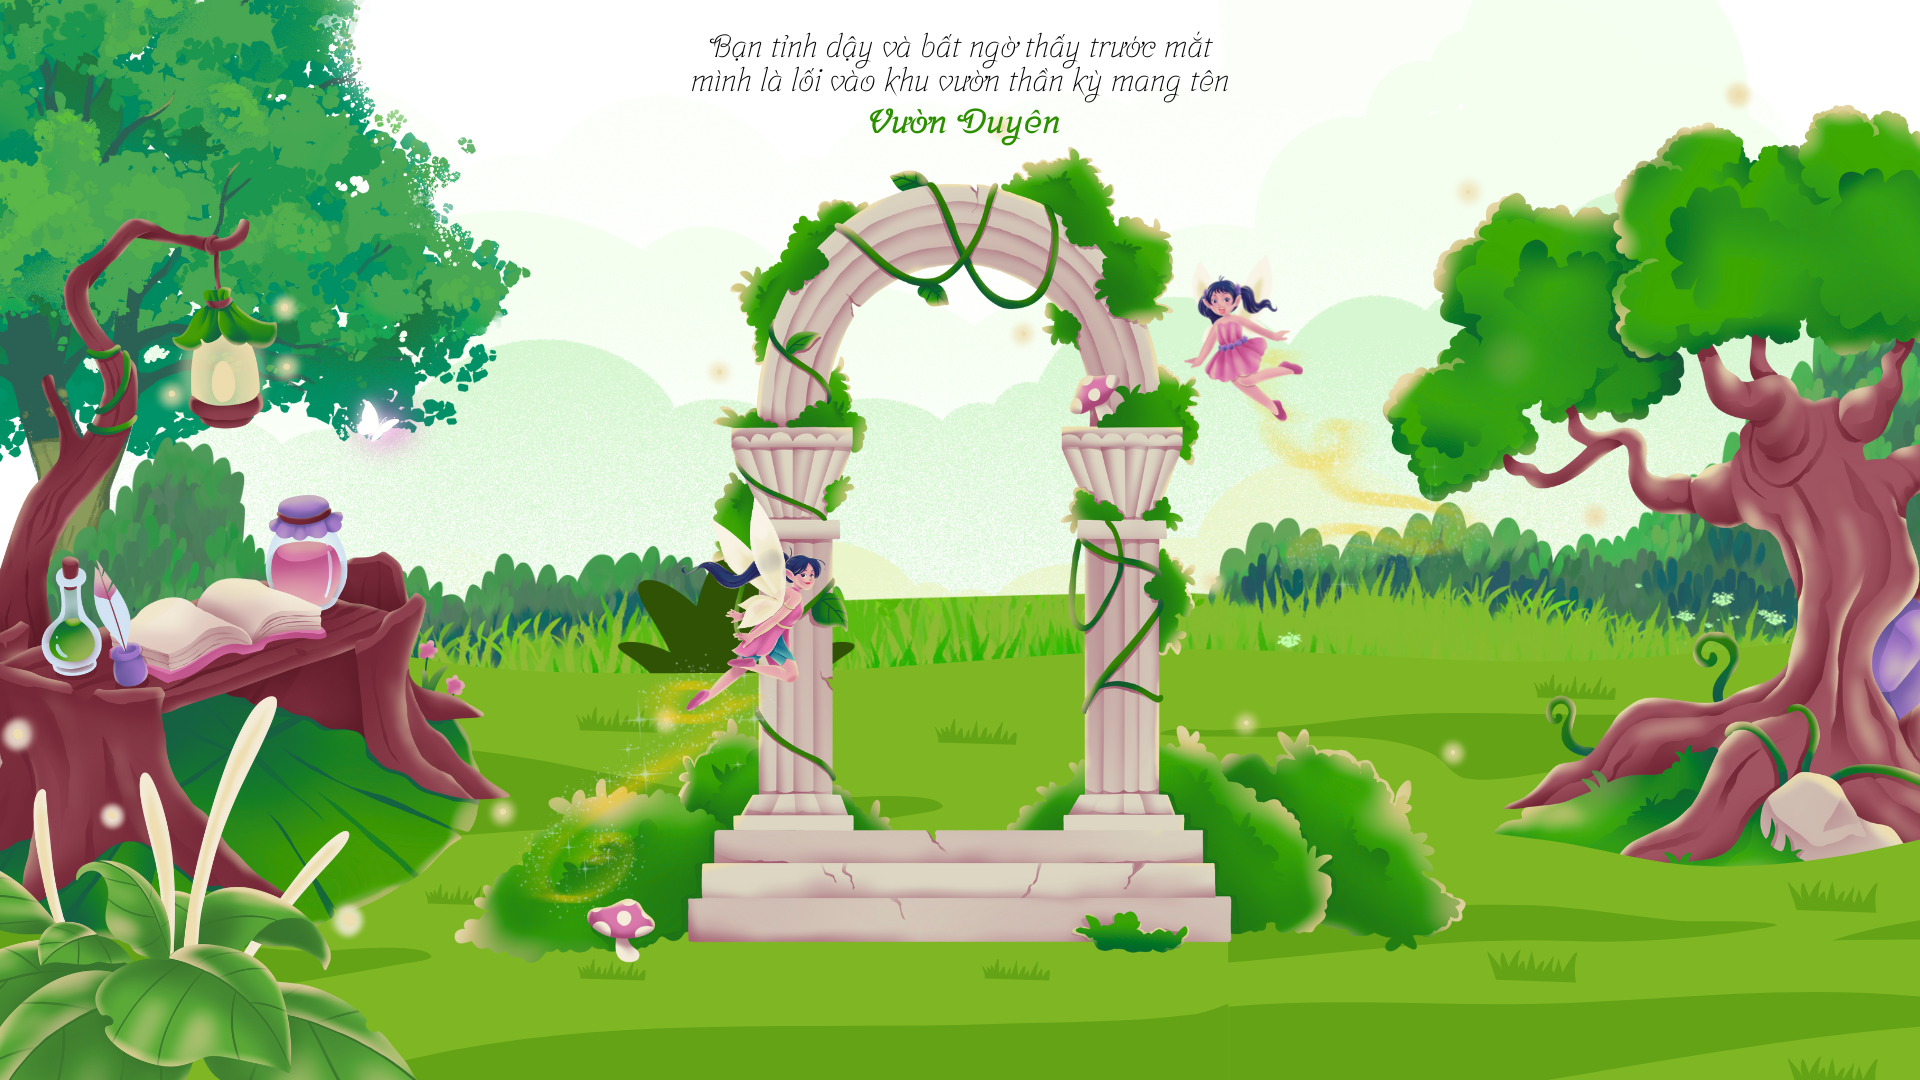
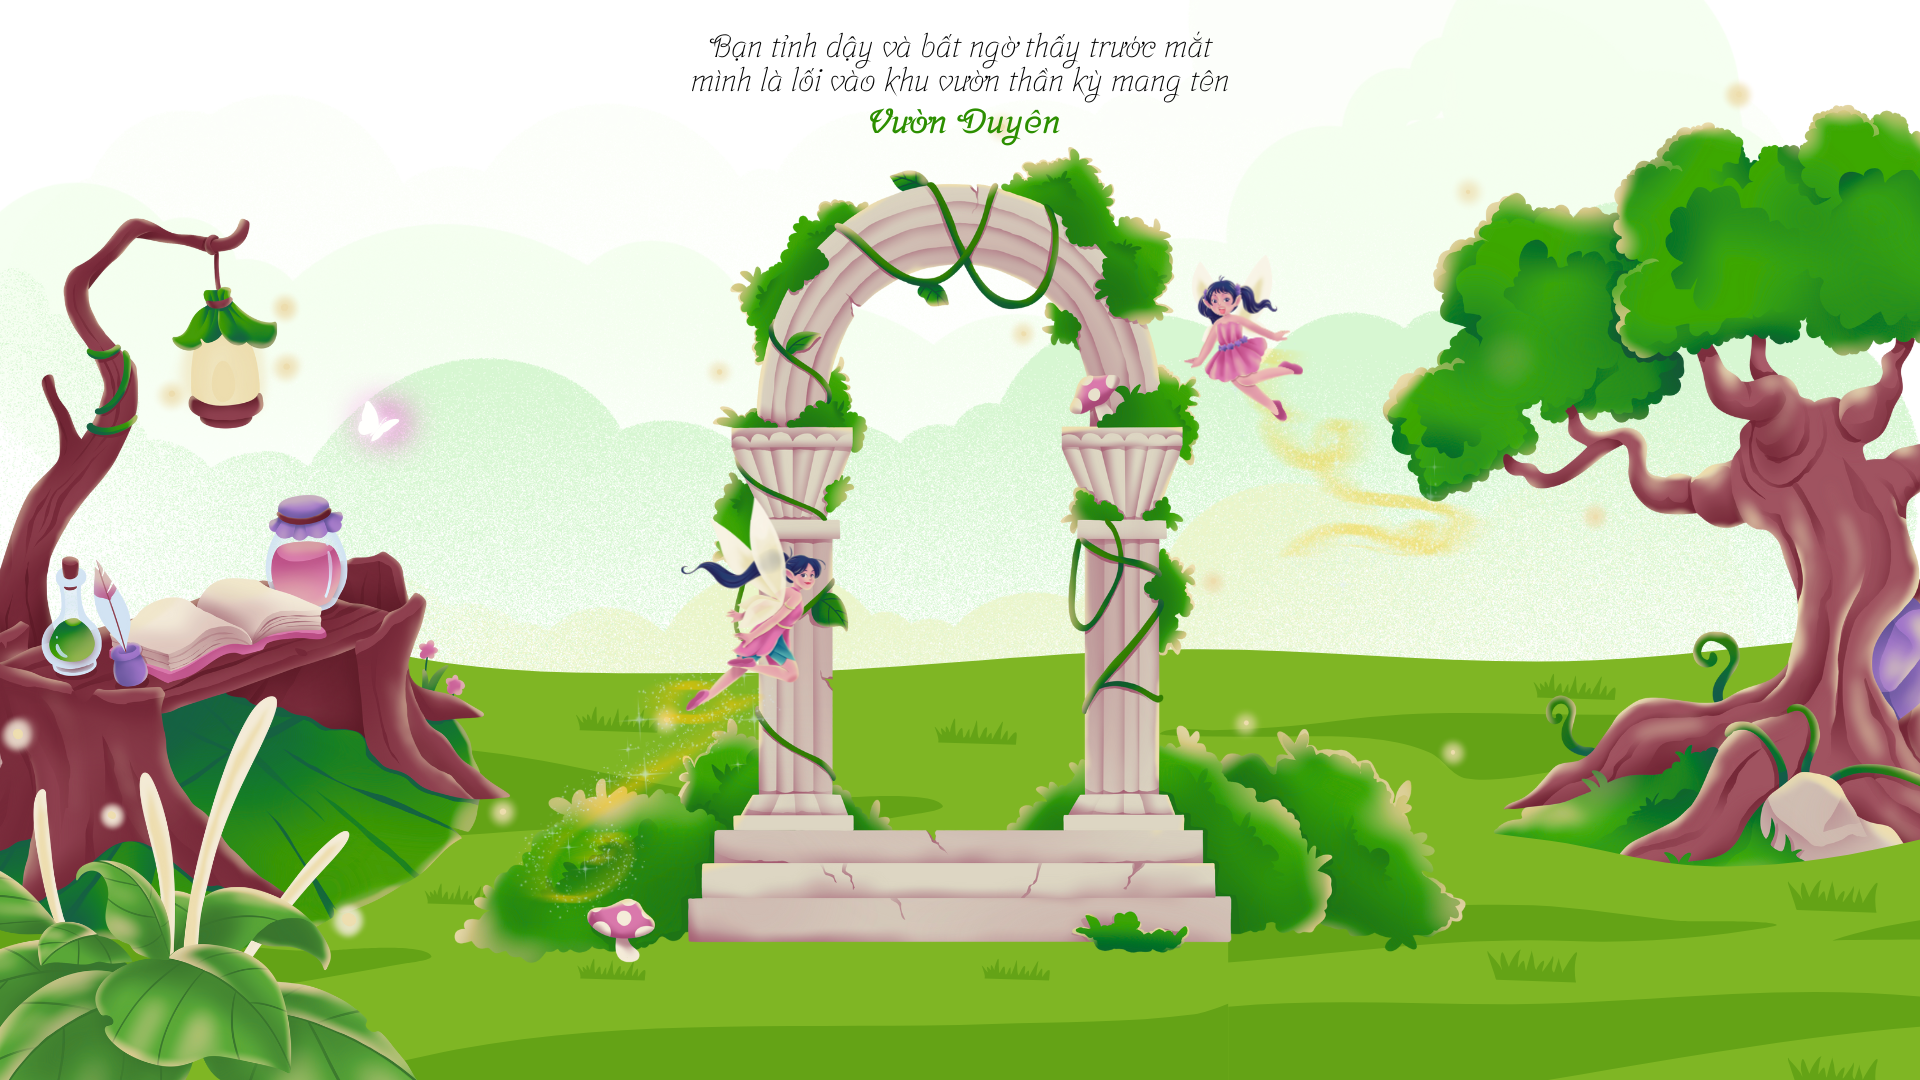
update website

diff --git a/kết quả.html b/kết quả.html
@@ -12,6 +12,9 @@
     background: linear-gradient(to bottom, rgb(187, 235, 187), #fff);
     color: #111;
     height: 100%;
+     min-height: 100vh;
+  background-repeat: no-repeat;
+  background-size: cover;
   }
 
   .wrap {
